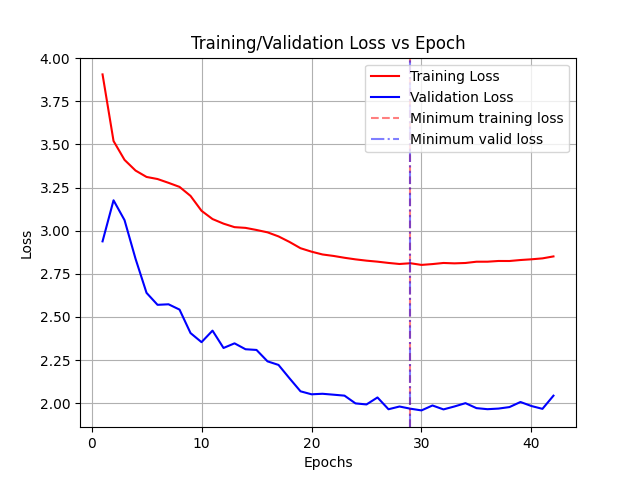
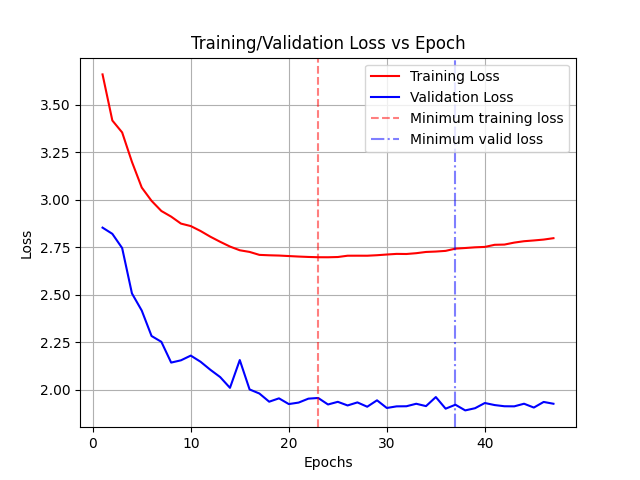
Trained with hyperparam close to paper's
Changed optimizer warmup 100->4000
Dropout 0.4->0.25

diff --git a/utils.py b/utils.py
@@ -45,7 +45,7 @@ parser.add_argument('--n_heads', type=int, default=8,
                     help='number of en/dec blocks')
 parser.add_argument('--ffn_hidden', type=int, default=2048,
                     help='number of hidden units in FFN')
-parser.add_argument('--dropout', type=float, default=0.4,
+parser.add_argument('--dropout', type=float, default=0.25,
                     help='dropout probability')
 parser.add_argument('--max_sent_len', type=int, default=10,
                     help='Maximum length of sentence to use for train/valid/test')
@@ -59,12 +59,12 @@ parser.add_argument('--optim_adam_eps', type=float, default=5e-9,
                     help='Adam epsilon')
 parser.add_argument('--optim_patience', type=int, default=8,
                     help='Number of epochs optimizer will wait before decreasing LR')
-parser.add_argument('--optim_warmup', type=int, default=100,
+parser.add_argument('--optim_warmup', type=int, default=4000,
                     help='Optimizer warmup')
 parser.add_argument('--optim_weight_decay', type=int, default=5e-4,
                     help='Weight decay factor for optimizer')
 
-parser.add_argument('--epoch', type=int, default=1000,
+parser.add_argument('--epoch', type=int, default=50,
                     help='Number of epochs to train')
 parser.add_argument('--clip', type=float, default=1.0,
                     help='Gradient clipping')
